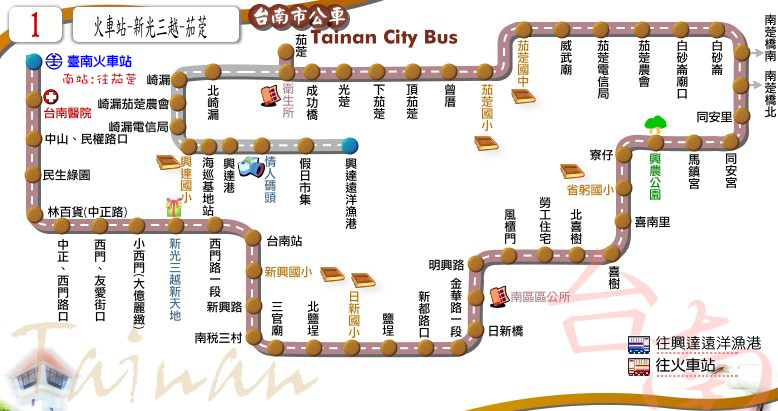
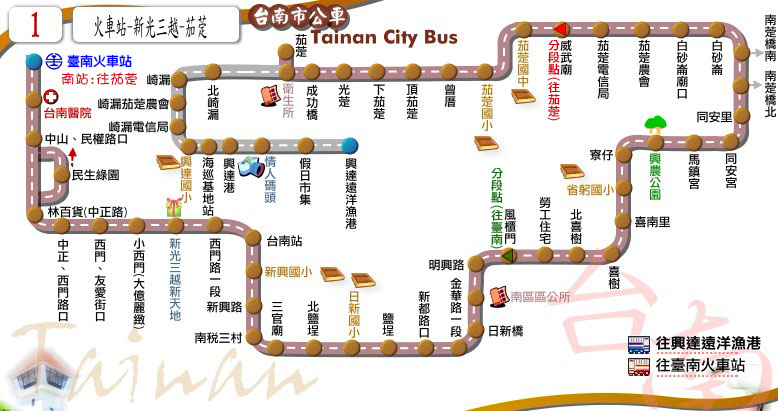
更新1路分段點

diff --git a/city_bus/city_bus_1.html b/city_bus/city_bus_1.html
@@ -21,8 +21,8 @@
 <script type="text/javascript">
 	block_header();
 	block_route_map(null);
-	block_route_info(route_interval,'府城客運','尖10~15離30','二段票 分段點：威武廟','http://2384.tainan.gov.tw:8080/AGPSRemoteQuery3/ajaxBus.jsp?pathId=10160&locale=zh_TW');
-	block_fare(2, null,'威武廟');
+	block_route_info(route_interval,'府城客運','尖10~15離30','二段票','http://2384.tainan.gov.tw:8080/AGPSRemoteQuery3/ajaxBus.jsp?pathId=10160&locale=zh_TW');
+	block_fare(2, null,'去程(往茄萣) 分段點過「威武廟」<br />回程(往臺南) 分段點過「風櫃門」');
 	block_multiple_time_schedule( [['平日班表','normal'],['假日班表','holiday']],'');
 	block_transfer(transfer_tainan_railway_station);
 	block_copyright();
